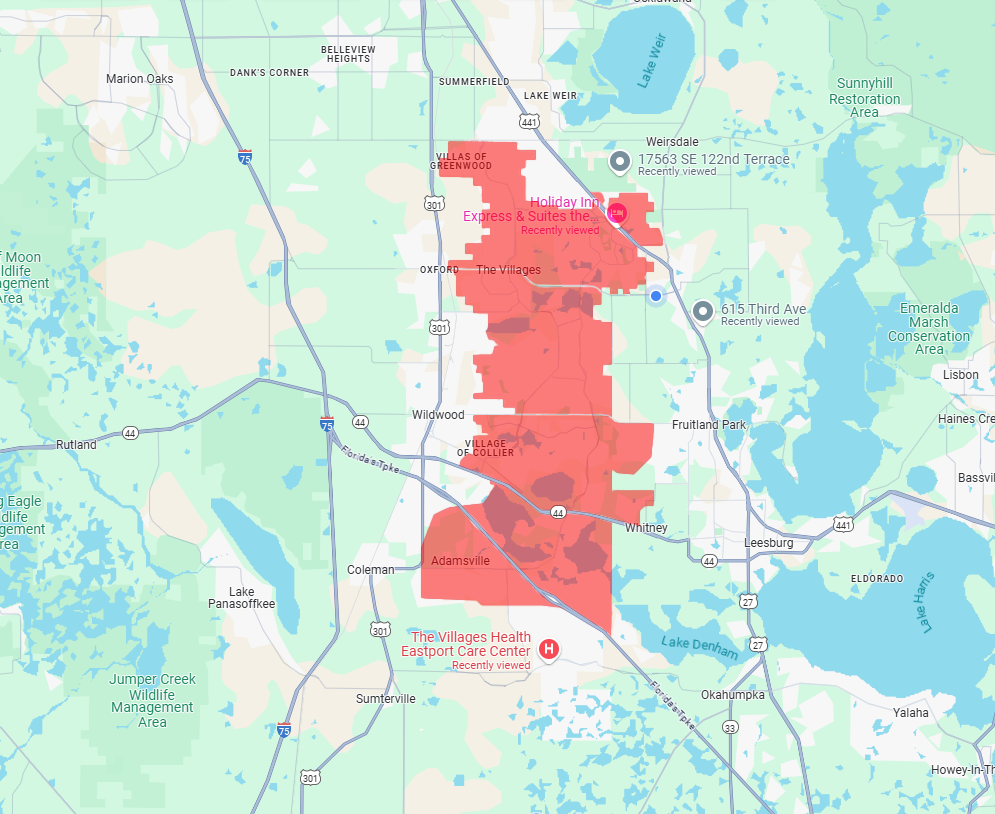
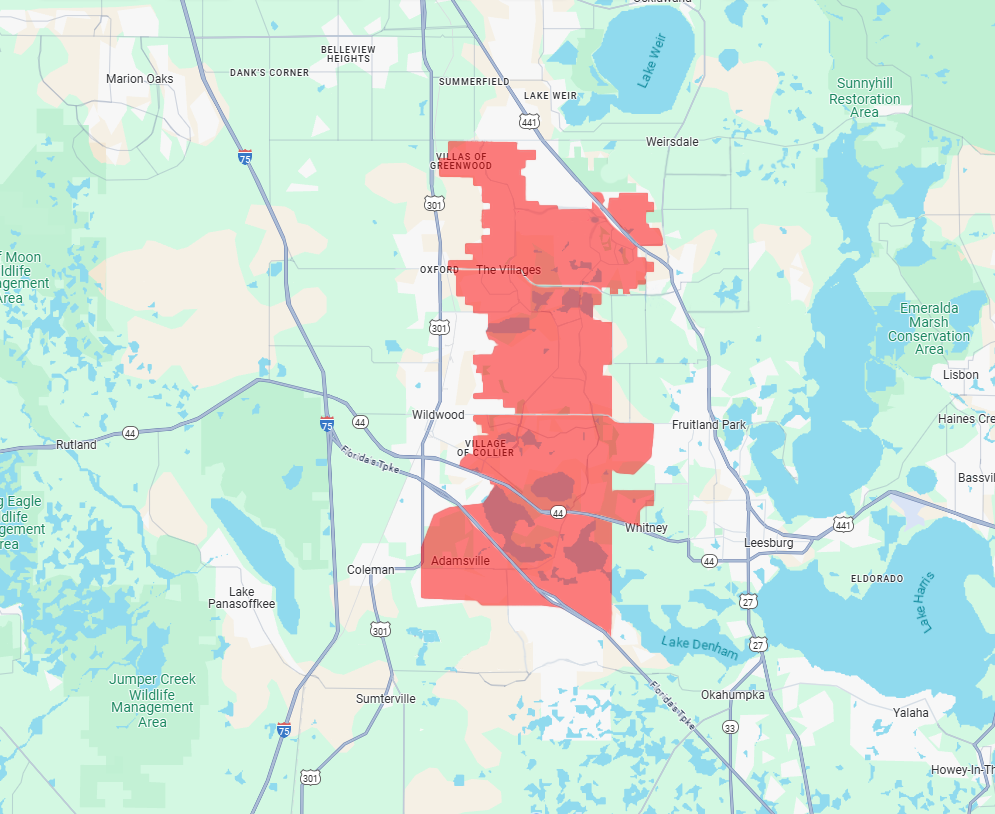
Fixed Bugs

diff --git a/Map.html b/Map.html
@@ -10,37 +10,41 @@
         body {
             font-family: 'Inter', sans-serif;
         }
-        /* Container for the map to establish a positioning context */
+        /* The container needs a relative position for the absolute-positioned elements */
         #map-container {
-            position: relative;
-            width: 981px; /* Width of the base map image */
-            height: 752px; /* Height of the base map image */
+            max-width: 981px; /* This should be the width of your basemap.png */
             margin: auto;
-            border-radius: 0.5rem;
-            overflow: hidden;
-            box-shadow: 0 10px 25px rgba(0,0,0,0.1);
-            background-color: #e5e7eb; /* A light gray background for the map area */
+            position: relative; /* Crucial for positioning overlays and the label */
         }
-        /* Base map image */
         #base-map {
-            display: block;
             width: 100%;
-            height: 100%;
+            height: auto;
+            display: block; /* Removes bottom space under the image */
         }
-        /* Styling for the overlay sections */
-        .map-section {
+        /* --- Style for the individual map section overlays --- */
+        .map-overlay {
             position: absolute;
             top: 0;
             left: 0;
             width: 100%;
             height: 100%;
-            opacity: 0; /* Initially transparent */
-            transition: opacity 0.3s ease-in-out;
-            cursor: pointer;
+            opacity: 0; /* Hidden by default */
+            transition: opacity 0.2s ease-in-out; /* Smooth fade effect */
+            /* This prevents the overlay from blocking mouse events to the map areas underneath */
+            pointer-events: none; 
         }
-        /* On hover, the section becomes visible */
-        .map-section:hover {
-            opacity: 0.7; /* Semi-transparent red highlight */
+        /* --- Style for the custom hover label --- */
+        #map-label {
+            display: none;
+            position: absolute;
+            background-color: rgba(0, 0, 0, 0.8);
+            color: white;
+            padding: 8px 12px;
+            border-radius: 6px;
+            font-size: 1rem;
+            white-space: nowrap;
+            z-index: 10;
+            pointer-events: none;
         }
     </style>
 </head>
@@ -51,78 +55,82 @@
         <p class="text-lg text-gray-600 mt-2">Hover over a region to see it highlighted, and click to open the corresponding link.</p>
     </div>
 
-    <!-- The main container for the map and its overlays -->
     <div id="map-container">
-        <!-- Using relative path. Assumes an 'images' subfolder. -->
-        <img id="base-map" src="images/blankmap.png" alt="Base Map of The Villages">
-        <!-- The interactive sections will be dynamically added here by JavaScript -->
+        <!-- The base map is now the blank version -->
+        <img id="base-map" src="images/basemapoutline.png" alt="Base Map of The Villages" usemap="#image-map">
+        
+        <!-- This container will hold the section images that appear on hover -->
+        <div id="map-overlays"></div>
+
+        <!-- This empty div will be our hover label -->
+        <div id="map-label"></div>
     </div>
 
-    <!-- Status area for loading feedback -->
-    <div id="status-area" class="mt-4 text-center text-sm text-gray-500"></div>
+    <!-- Each area now has a 'data-img' attribute pointing to its highlight image -->
+    <map name="image-map">
+        <area data-img="images/eastport.png" target="_blank" alt="Eastport" title="Eastport" href="https://homesaroundthevillages.com/eastport" coords="560,607,482,605,477,600,422,597,421,546,433,515,449,507,457,507" shape="poly">
+        <area data-img="images/southofsr44.png" target="_blank" alt="South of SR 44" title="South of SR 44" href="https://homesaroundthevillages.com/south-of-sr-44" coords="610,635,611,523,585,516,567,514,547,515,527,502,509,489,491,481,494,488,484,504,464,506,503,550,544,590" shape="poly">
+        <area data-img="images/southof466a.png" target="_blank" alt="South of 466A" title="South of 466A" href="https://homesaroundthevillages.com/south-of-466a" coords="654,423,651,454,635,472,611,470,612,488,652,492,653,503,641,508,641,523,611,518,582,511,557,509,543,509,519,492,491,478,459,465,468,453,473,437,485,435,481,426,474,421,474,414,607,415,613,423" shape="poly">
+        <area data-img="images/betweenthe6s.png" target="_blank" alt="Between the 6s" title="Between the 6s" href="https://homesaroundthevillages.com/between-the-6s" coords="611,416,517,414,517,407,505,407,503,399,475,400,473,394,482,393,481,376,474,373,474,358,491,355,486,334,487,313,475,313,473,306,466,306,466,296,456,296,454,271,515,271,531,284,593,286,601,292,601,305,592,307,593,318,610,324,610,362,600,364,602,376,611,376" shape="poly">
+        <area data-img="images/northof466.png" target="_blank" alt="North of 466" title="North of 466" href="https://homesaroundthevillages.com/north-of-466" coords="448,141,517,143,518,150,535,150,535,160,527,159,525,166,521,175,526,178,526,199,539,202,554,205,589,207,594,204,634,246,638,256,646,259,646,265,653,265,653,273,644,271,645,281,638,283,631,288,611,293,596,285,543,284,520,268,449,267,449,257,472,259,466,254,466,241,480,242,480,187,473,186,471,177,441,177,439,159,450,157" shape="poly">
+        <area data-img="images/historicarea.png" target="_blank" alt="Historic Area" title="Historic Area" href="https://homesaroundthevillages.com/historic-area" coords="591,192,641,244,662,243,660,230,649,228,646,222,645,212,653,212,653,202,646,203,647,194,621,193,620,200,610,198" shape="poly">
+    </map>
 
     <script>
         document.addEventListener('DOMContentLoaded', () => {
-            // --- Configuration for Map Sections ---
-            // **CRITICAL:** The 'src' paths below MUST EXACTLY MATCH your filenames, including capitalization.
-            // Example: 'images/HistoricArea.png' will NOT work if the file is named 'images/historicarea.png'.
-            // Please double-check every single filename.
-            const mapSections = [
-                { id: 'historic', src: 'images/historicarea.png', name: 'Historic Area', url: 'https://www.thevillages.com/lifestyle/historic-area' },
-                { id: 'north-of-466', src: 'images/northof466.png', name: 'North of 466', url: 'https://www.thevillages.com/lifestyle/north-of-466' },
-                { id: 'between-the-6s', src: 'images/betweenthe6s.png', name: 'Between the 6s', url: 'https://www.thevillages.com/lifestyle/between-the-6s' },
-                { id: 'south-of-466a', src: 'images/southof466a.png', name: 'South of 466A', url: 'https://www.thevillages.com/lifestyle/south-of-466a' },
-                { id: 'eastport', src: 'images/eastport.png', name: 'Eastport', url: 'https://www.thevillages.com/lifestyle/eastport' },
-                { id: 'south-of-sr44', src: 'images/southofsr44.png', name: 'South of SR 44', url: 'https://www.thevillages.com/lifestyle/south-of-sr44' }
-            ];
-
             const mapContainer = document.getElementById('map-container');
-            const baseMap = document.getElementById('base-map');
-            const statusArea = document.getElementById('status-area');
+            const overlaysContainer = document.getElementById('map-overlays');
+            const label = document.getElementById('map-label');
+            const areas = document.querySelectorAll('map[name="image-map"] area');
 
-            let sectionsLoaded = 0;
+            // --- Dynamically Create Overlay Images ---
+            areas.forEach(area => {
+                const imgSrc = area.getAttribute('data-img');
+                if (!imgSrc) return;
 
-            // --- Base Map Loading Status ---
-            statusArea.textContent = 'Loading base map...';
-            baseMap.onload = () => {
-                statusArea.textContent = 'Base map loaded. Loading interactive sections...';
-            };
-            baseMap.onerror = () => {
-                mapContainer.innerHTML = '<p class="text-red-500 font-semibold text-center p-8">Error: Base map "images/BlankMap.png" could not be loaded. Please check the file path and name.</p>';
-            };
+                const overlayImg = document.createElement('img');
+                overlayImg.src = imgSrc;
+                overlayImg.className = 'map-overlay';
+                // Create a unique ID for the overlay based on the image source
+                overlayImg.id = `overlay-${imgSrc.split('.')[0]}`; 
+                overlaysContainer.appendChild(overlayImg);
+            });
 
-            // --- Dynamically Create Map Sections ---
-            for (const section of mapSections) {
-                const img = document.createElement('img');
-                img.src = section.src;
-                img.alt = `Map section for ${section.name}`;
-                img.id = section.id;
-                img.className = 'map-section';
-                
-                img.onload = () => {
-                    sectionsLoaded++;
-                    statusArea.textContent = `Loaded ${sectionsLoaded} of ${mapSections.length} sections.`;
-                    if (sectionsLoaded === mapSections.length) {
-                        setTimeout(() => { statusArea.style.display = 'none'; }, 2000);
-                    }
-                };
-                
-                img.onerror = () => {
-                    console.error(`Failed to load image for section: ${section.name} at ${section.src}`);
-                    statusArea.innerHTML += `<br><span class="text-red-500 font-bold">Failed to load: "${section.src}".</span> Please check the file name and subfolder for exact match (including capitalization).`;
-                };
+            // --- Logic for Hover Labels and Overlays ---
+            areas.forEach(area => {
+                const overlayId = `overlay-${area.getAttribute('data-img').split('.')[0]}`;
+                const overlayElement = document.getElementById(overlayId);
 
-                // --- Click Event to Open Pre-determined Link ---
-                img.addEventListener('click', () => {
-                    if (section.url) {
-                        window.open(section.url, '_blank');
-                    } else {
-                        console.warn(`No URL defined for section: ${section.name}`);
+                // When the mouse enters a clickable area...
+                area.addEventListener('mouseover', (event) => {
+                    // Show label
+                    label.textContent = area.getAttribute('title');
+                    label.style.display = 'block';
+                    // Show overlay
+                    if (overlayElement) {
+                        overlayElement.style.opacity = '1';
                     }
                 });
 
-                mapContainer.appendChild(img);
-            }
+                // When the mouse leaves the area...
+                area.addEventListener('mouseout', (event) => {
+                    // Hide label
+                    label.style.display = 'none';
+                    // Hide overlay
+                    if (overlayElement) {
+                        overlayElement.style.opacity = '0';
+                    }
+                });
+
+                // As the mouse moves, update the label's position
+                area.addEventListener('mousemove', (event) => {
+                    const mapRect = mapContainer.getBoundingClientRect();
+                    const x = event.clientX - mapRect.left + window.scrollX;
+                    const y = event.clientY - mapRect.top + window.scrollY;
+                    label.style.left = `${x + 15}px`;
+                    label.style.top = `${y + 15}px`;
+                });
+            });
         });
     </script>
 
